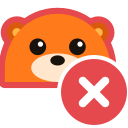
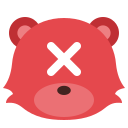
feat: redraw slack status emoji as the mascot's head in the status color

diff --git a/scripts/render.py b/scripts/render.py
@@ -309,45 +309,47 @@ def icon_svg(name):
 
 
 EMOJI_OUT = ROOT / "slack" / "emoji"
-EYES = {
-    "open": lambda dx=0.0: (
-        f'<circle cx="23" cy="32" r="3.8" fill="{INK}"/><circle cx="{24.2 + dx}" cy="30.8" r="1.2" fill="#fff"/>'
-        f'<circle cx="41" cy="32" r="3.8" fill="{INK}"/><circle cx="{42.2 + dx}" cy="30.8" r="1.2" fill="#fff"/>'
-    ),
-    "look": lambda dx=0.0: (
-        f'<circle cx="23" cy="32" r="4.4" fill="#fff"/><circle cx="{23 + dx}" cy="32.4" r="2.9" fill="{INK}"/>'
-        f'<circle cx="41" cy="32" r="4.4" fill="#fff"/><circle cx="{41 + dx}" cy="32.4" r="2.9" fill="{INK}"/>'
-    ),
-    "happy": lambda dx=0.0: f'<path d="M19.5 33.5q3.5-4.5 7 0M37.5 33.5q3.5-4.5 7 0" stroke="{INK}" stroke-width="2.4" stroke-linecap="round"/>',
-    "sleep": lambda dx=0.0: f'<path d="M19.5 32.5h7M37.5 32.5h7" stroke="{INK}" stroke-width="2.4" stroke-linecap="round"/>',
+EMOJI_HEAD = (
+    "M32 9C47 9 57 19 58 32C58.5 37 60 41 62.5 44C59.5 44.5 58 45.5 57.5 47C60 48.5 61 50 61 51.5"
+    "C57 51 55 52 52.5 54C47 58.5 40 60 32 60C24 60 17 58.5 11.5 54C9 52 7 51 3 51.5"
+    "C3 50 4 48.5 6.5 47C6 45.5 4.5 44.5 1.5 44C4 41 5.5 37 6 32C7 19 17 9 32 9Z"
+)
+EMOJI_STATUS = {
+    "reviewing": ("#8b6cff", "#6a4fe0", "#fff"),
+    "clean": ("#1f9d55", "#157a41", "#fff"),
+    "minor": ("#fbbf24", "#d99a06", INK),
+    "changes": ("#e5484d", "#bf2f34", "#fff"),
+    "skipped": ("#7c8491", "#5d6470", "#fff"),
 }
-BADGE = {
-    "reviewing": ("#8b6cff", lambda t: (
-        f'<g transform="translate({1.6 * math.cos(t)} {1.6 * math.sin(t)})">'
-        f'<circle cx="46.6" cy="44.6" r="5" stroke="#fff" stroke-width="3"/>'
-        f'<path d="M50.3 48.3l4 4" stroke="#fff" stroke-width="3.4" stroke-linecap="round"/></g>'
-    )),
-    "clean": ("#1f9d55", lambda t: '<path d="M41.5 46.5l4.5 4.5 8.5-9" stroke="#fff" stroke-width="3.6" stroke-linecap="round" stroke-linejoin="round"/>'),
-    "minor": ("#fbbf24", lambda t: f'<path d="M48 39.5v8" stroke="{INK}" stroke-width="3.8" stroke-linecap="round"/><circle cx="48" cy="53" r="2.3" fill="{INK}"/>'),
-    "changes": ("#e5484d", lambda t: '<path d="M43 41l10 10M53 41l-10 10" stroke="#fff" stroke-width="3.6" stroke-linecap="round"/>'),
-    "skipped": ("#7c8491", lambda t: '<path d="M42 46h12" stroke="#fff" stroke-width="3.8" stroke-linecap="round"/>'),
-}
-FACE = {"reviewing": "look", "clean": "happy", "minor": "open", "changes": "open", "skipped": "sleep"}
+
+
+def emoji_glyph(status, ink, cx, cy, size):
+    k = size / 10
+    w = 2.4 * k
+    return {
+        "reviewing": f'<circle cx="{cx - k}" cy="{cy - k}" r="{3.6 * k}" stroke="{ink}" stroke-width="{w}"/>'
+        f'<path d="M{cx + 1.8 * k} {cy + 1.8 * k}l{3 * k} {3 * k}" stroke="{ink}" stroke-width="{w * 1.1}" stroke-linecap="round"/>',
+        "clean": f'<path d="M{cx - 4.6 * k} {cy + 0.2 * k}l{3.2 * k} {3.2 * k} {6.2 * k}-{6.6 * k}" stroke="{ink}" stroke-width="{w}" stroke-linecap="round" stroke-linejoin="round"/>',
+        "minor": f'<path d="M{cx} 22.5V37.5" stroke="{ink}" stroke-width="{w * 1.05}" stroke-linecap="round"/>',
+        "changes": f'<path d="M{cx - 3.8 * k} {cy - 3.8 * k}l{7.6 * k} {7.6 * k}M{cx + 3.8 * k} {cy - 3.8 * k}l-{7.6 * k} {7.6 * k}" stroke="{ink}" stroke-width="{w}" stroke-linecap="round"/>',
+        "skipped": f'<path d="M{cx - 4.5 * k} {cy}h{9 * k}" stroke="{ink}" stroke-width="{w * 1.05}" stroke-linecap="round"/>',
+    }[status]
 
 
 def emoji(status, t=0.0):
-    color, glyph = BADGE[status]
-    dx = 1.3 * math.sin(t) if status == "reviewing" else 0.0
-    halo = (
-        f'<g fill="{color}" stroke="{color}" stroke-width="5.5" stroke-linejoin="round">'
-        f'<circle cx="13.5" cy="25.5" r="4.6"/><circle cx="50.5" cy="25.5" r="4.6"/><path d="{HEAD}"/></g>'
+    color, dark, ink = EMOJI_STATUS[status]
+    dx, dy = (1.4 * math.cos(t), 1.4 * math.sin(t)) if status == "reviewing" else (0.0, 0.0)
+    tint = '<circle cx="{x}" cy="16.5" r="3.8" fill="#fff" fill-opacity=".3"/>'
+    ears = "".join(
+        f'<circle cx="{x}" cy="16.5" r="8" fill="{dark}"/><circle cx="{x}" cy="16.5" r="3.8" fill="{color}"/>{tint.format(x=x)}'
+        for x in (12.5, 51.5)
     )
-    head = f'{halo}<g fill="none">{EARS}<path d="{HEAD}" fill="{ORANGE}"/>{EYES[FACE[status]](dx)}{MUZZLE.split("<path", 1)[0]}<ellipse cx="32" cy="38.2" rx="3.3" ry="2.3" fill="{INK}"/></g>'
+    nose = 'fill-opacity="1"' if status == "minor" else 'fill-opacity=".8"'
     return f"""<svg xmlns="http://www.w3.org/2000/svg" width="128" height="128" viewBox="0 0 64 64">
-<mask id="cut"><rect width="64" height="64" fill="#fff"/><circle cx="47" cy="46" r="18.5" fill="#000"/></mask>
-<g mask="url(#cut)"><g transform="translate(-6.4 -11.8) scale(1.1)">{head}</g></g>
-<circle cx="47" cy="46" r="16.5" fill="{color}"/>
-<g fill="none" transform="translate(47 46) scale(1.12) translate(-48 -46)">{glyph(t)}</g>
+<g fill="none">{ears}<path d="{EMOJI_HEAD}" fill="{color}"/>
+<ellipse cx="32" cy="50" rx="15" ry="8.5" fill="#fff" fill-opacity=".22"/>
+<ellipse cx="32" cy="45.2" rx="3.4" ry="2.3" fill="{INK}" {nose}/>
+<g transform="translate({dx} {dy})">{emoji_glyph(status, ink, 32, 29.5, 17)}</g></g>
 </svg>"""
 
 
@@ -386,6 +388,6 @@ write("social-holtkeeper", social(), 1280)
 write("icon-holtkeeper", icon_svg("holtkeeper"), 128)
 for name in VARIANTS:
     write(f"icon-{name}", icon_svg(name), 128)
-for status in BADGE:
+for status in EMOJI_STATUS:
     write_emoji(status)
 write_animated("reviewing")

diff --git a/slack/README.md b/slack/README.md
@@ -32,8 +32,7 @@ clear of them.
 
 Custom emoji for the review status reactions, in [`emoji/`](emoji). Upload them under
 **Customize workspace → Emoji** with the names below, then set those names in the review status
-settings instead of the defaults. Each one is the mascot's head outlined in the status color with a status badge in the corner:
-the outline and badge carry the meaning at 22 px, the face backs them up when the emoji is shown larger.
+settings instead of the defaults. Each one is the mascot's head drawn in the status color with the status sign on its forehead: the color and sign carry the meaning at reaction size (16 px), the ears and muzzle keep it recognizable as Holtkeeper. The dot of the exclamation mark is the nose.
 
 | Status                         | Name              | File                                                              | Default |
 | ------------------------------ | ----------------- | ----------------------------------------------------------------- | ------- |
